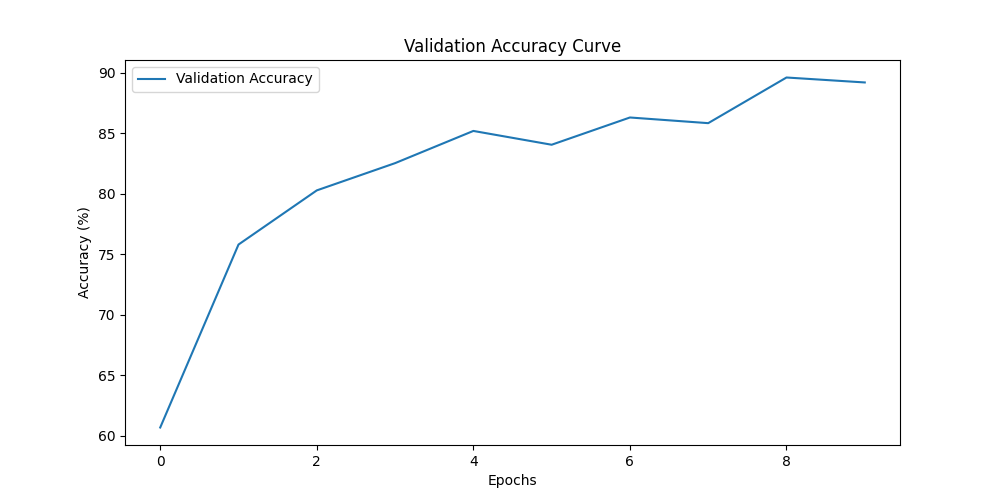
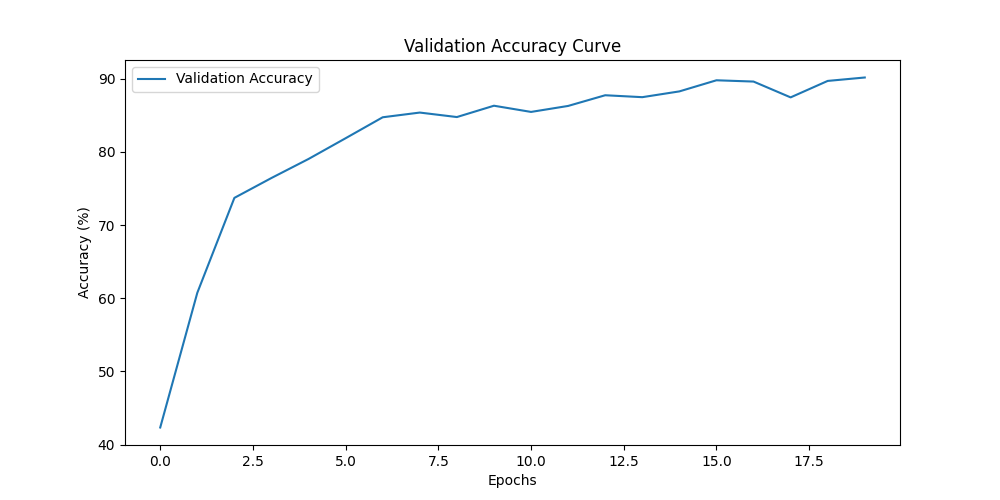
feat: ✨ Final commit

diff --git a/main.py b/main.py
@@ -3,14 +3,14 @@ import torchvision.transforms as transforms
 import medmnist
 from medmnist import INFO
 
-# Update main.py
+
 if __name__ == "__main__":
     from A.task_a import Task_a
 
-    # Similar to above, Task B gets loaded similarly but separate scripts handle Task B.
     print("Starting training for Task A")
     Task_a(num_epochs=200, batch_size=32, lr=0.0001)
 
-    # from B.task_b import Task_b
-    # print("Starting training for Task B")
-    # Task_b(num_epochs=10, batch_size=128, lr=0.001)
+    from B.task_b import Task_b
+
+    print("Starting training for Task B")
+    Task_b(num_epochs=20, batch_size=256, lr=0.001)
